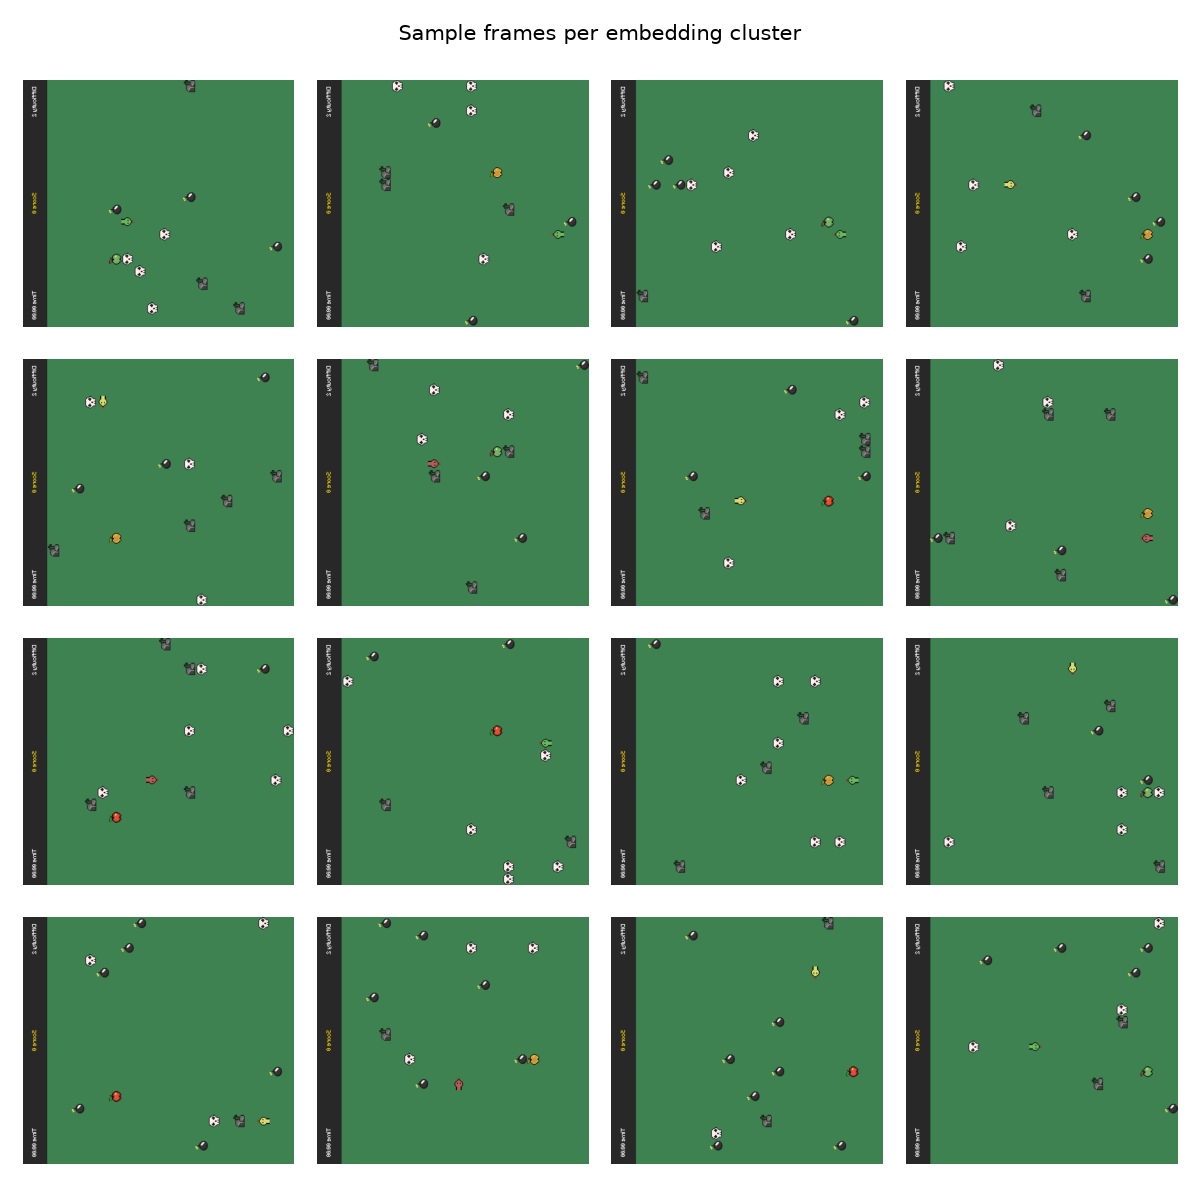
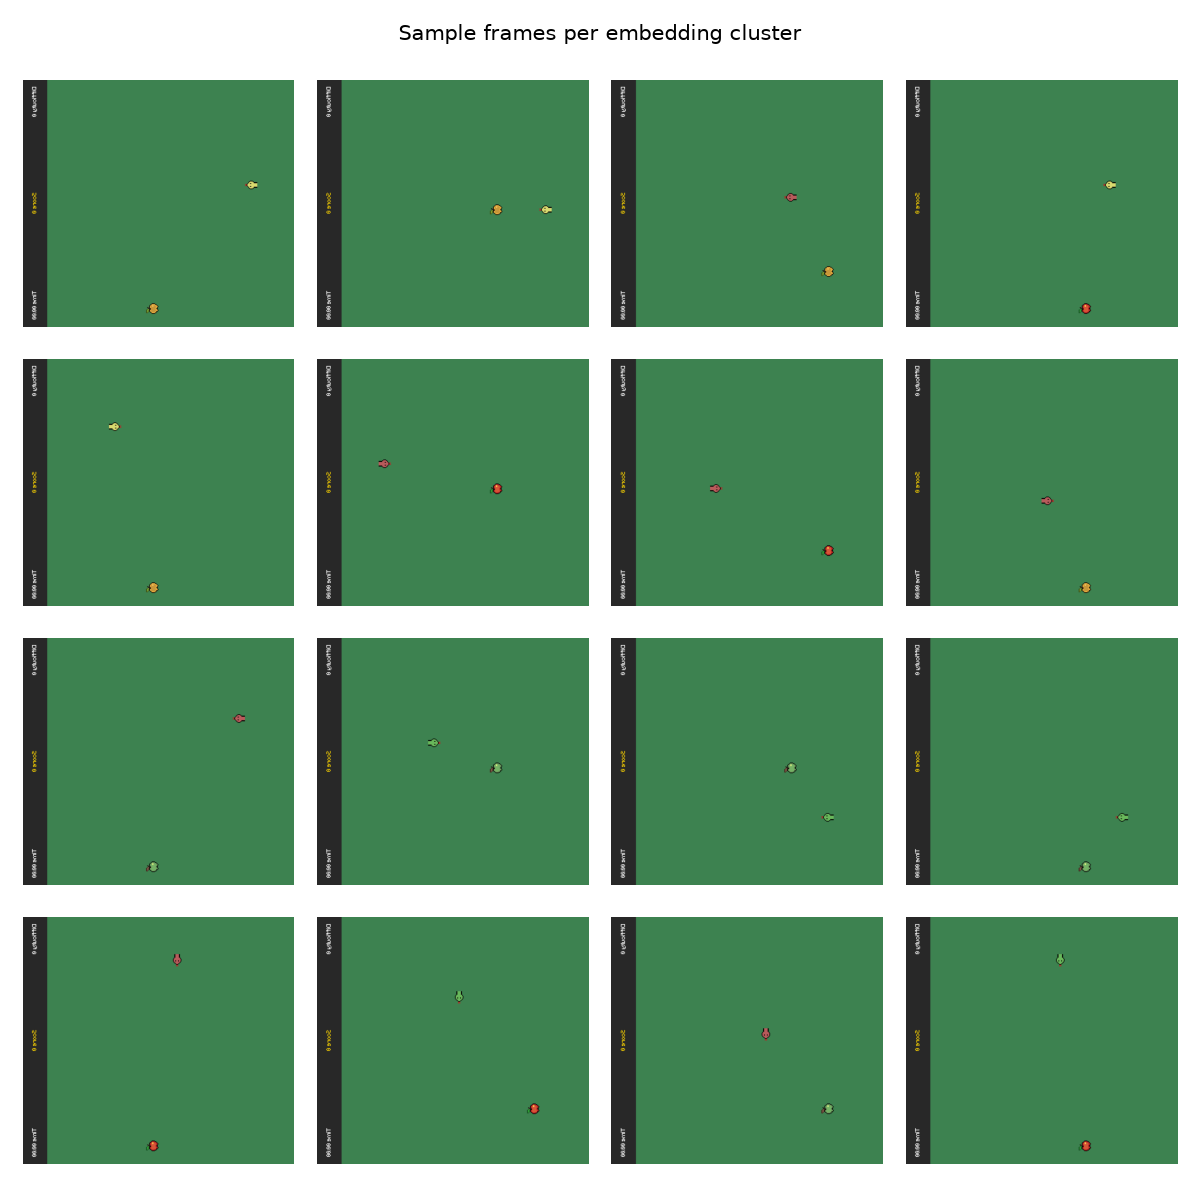
removed status bar from the view.

diff --git a/src/game/snake.py b/src/game/snake.py
@@ -19,7 +19,8 @@ CELL_SIZE = 35
 GRID_WIDTH, GRID_HEIGHT = 20, 20
 WIDTH = GRID_WIDTH * CELL_SIZE
 GAME_HEIGHT = GRID_HEIGHT * CELL_SIZE
-BAR_HEIGHT = 2*CELL_SIZE  # Height of the top status bar
+STATUS_BAR = False
+BAR_HEIGHT = 2*CELL_SIZE  if STATUS_BAR else 0# Height of the top status bar
 TOTAL_HEIGHT = GAME_HEIGHT + BAR_HEIGHT
 N_OBSTACLES = 10
 FPS = 10
@@ -52,6 +53,8 @@ class SnakeEnv(gym.Env):
         # Difficulty 1 means the standard game
         # Difficulty 2 means that there are some obstacles
         # Difficulty 3 means that the obstacle can change positions and there are fake apples
+
+        self.status_bar = STATUS_BAR
 
         if self.observation_type == "image":
             self.observation_space = spaces.Box(
@@ -369,20 +372,22 @@ class SnakeEnv(gym.Env):
         paint_surface = self.window if self.render_mode == "human" else self.canvas
         
         paint_surface.fill((40, 40, 40))
-        
-        total_seconds = self.total_step // self.metadata["render_fps"]
-        minutes = total_seconds // 60
-        seconds = total_seconds % 60
-        time_str = f"{minutes:02d}.{seconds:02d}"
 
-        diff_text = self.font.render(f"Difficulty {self.difficulty}", True, (255, 255, 255))
-        score_text = self.font.render(f"Score {self.score}", True, (255, 215, 0))
-        time_text = self.font.render(f"Time {time_str}", True, (255, 255, 255))
+        if self.status_bar:
         
-        text_y = (BAR_HEIGHT - diff_text.get_height()) // 2
-        paint_surface.blit(diff_text, (20, text_y))
-        paint_surface.blit(score_text, (WIDTH // 2 - score_text.get_width() // 2, text_y))
-        paint_surface.blit(time_text, (WIDTH - time_text.get_width() - 20, text_y))
+            total_seconds = self.total_step // self.metadata["render_fps"]
+            minutes = total_seconds // 60
+            seconds = total_seconds % 60
+            time_str = f"{minutes:02d}.{seconds:02d}"
+
+            diff_text = self.font.render(f"Difficulty {self.difficulty}", True, (255, 255, 255))
+            score_text = self.font.render(f"Score {self.score}", True, (255, 215, 0))
+            time_text = self.font.render(f"Time {time_str}", True, (255, 255, 255))
+            
+            text_y = (BAR_HEIGHT - diff_text.get_height()) // 2
+            paint_surface.blit(diff_text, (20, text_y))
+            paint_surface.blit(score_text, (WIDTH // 2 - score_text.get_width() // 2, text_y))
+            paint_surface.blit(time_text, (WIDTH - time_text.get_width() - 20, text_y))
 
         # Grass + Obstacles
         paint_surface.blit(self.grass_background, (0, BAR_HEIGHT))

diff --git a/src/validation/vis.py b/src/validation/vis.py
@@ -115,10 +115,10 @@ if __name__ == '__main__':
                  model.encoder,
                  model.policy.network,
                  model.optimizer,
-                 model.scheduler)
-                 #model.policy.optimizer,
-                 #model.policy.scheduler
-                 #)
+                 model.scheduler,
+                 model.policy.optimizer,
+                 model.policy.scheduler
+                 )
 
     env = SnakeEnv(render_mode="human", observation_type="image", difficulty=config.get("difficulty"))
 